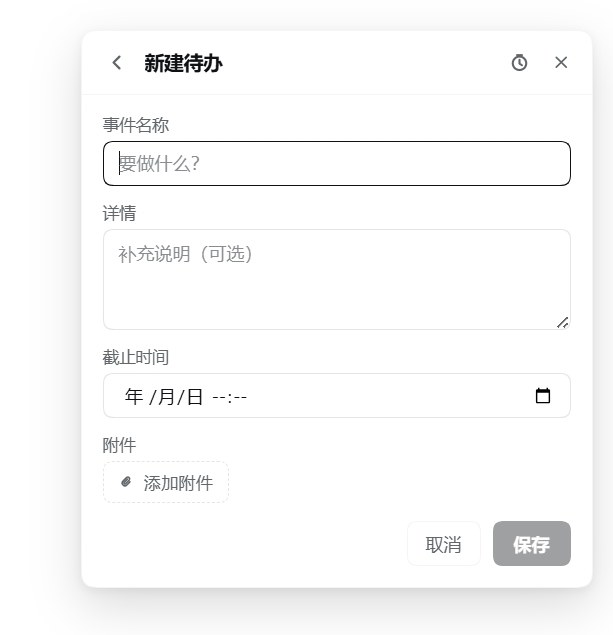
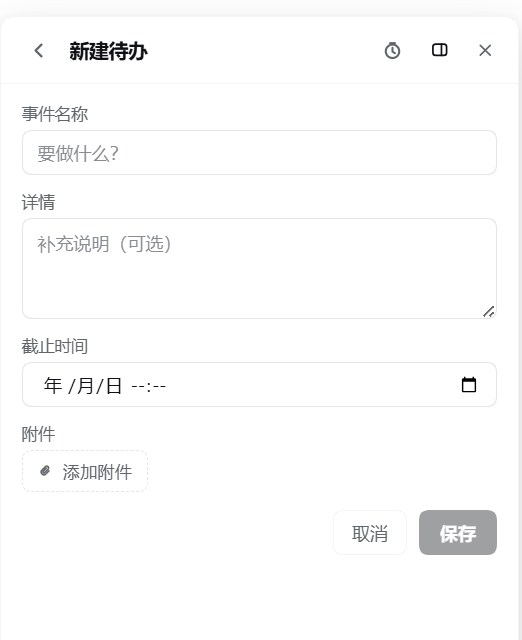
docs: refresh the new-item screenshot

diff --git a/README.md b/README.md
@@ -169,7 +169,8 @@ There is no JSX: components are built with `React.createElement` (aliased to `h`
 
 ## Changelog
 
-- `1.6.19` — the screenshots now show the docked column next to the chat instead of the old floating card.
+- `1.6.20` — the last two screenshots (a new item, the pomodoro page) match the current panel too.
+- `1.6.19` — the overview and list screenshots show the docked column beside the chat instead of the old floating card.
 - `1.6.18` — the floating card can be resized from its left edge, its bottom edge or the corner, and remembers the size.
 - `1.6.17` — the floating card hugs its content again instead of stretching to the window, and keeps its own 360px width.
 - `1.6.16` — a layout button switches between the docked column and the floating card, and the choice is persisted.

diff --git a/README.zh.md b/README.zh.md
@@ -169,7 +169,8 @@ dsh plugin --profile web add dsh-better-todo
 
 ## 更新记录
 
-- `1.6.19` —— 截图换成停靠侧栏的样子（不再是旧的浮动卡片）。
+- `1.6.20` —— 剩下两张截图（新建待办、番茄钟）也换成当前界面。
+- `1.6.19` —— 总览和列表两张截图换成停靠侧栏的样子（不再是旧的浮动卡片）。
 - `1.6.18` —— 浮窗可拖左边缘、下边缘或右下角调整大小，尺寸会记住；右下角双击回到内容自适应高度。
 - `1.6.17` —— 浮动卡片重新按内容自适应高度（不再拉满窗口），宽度固定为 360。
 - `1.6.16` —— 顶部多了一个布局按钮，可在定宽侧栏与浮动卡片之间来回切换，选择会被持久化。
